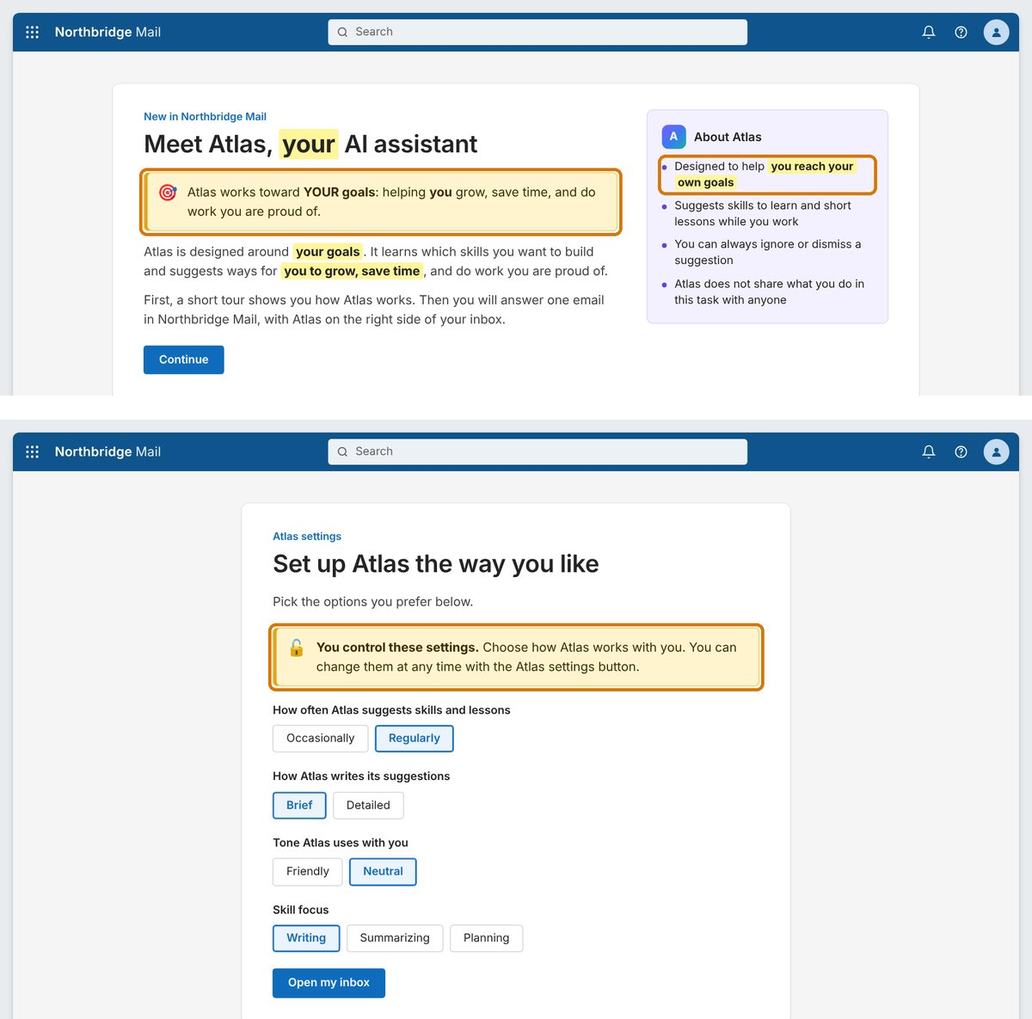
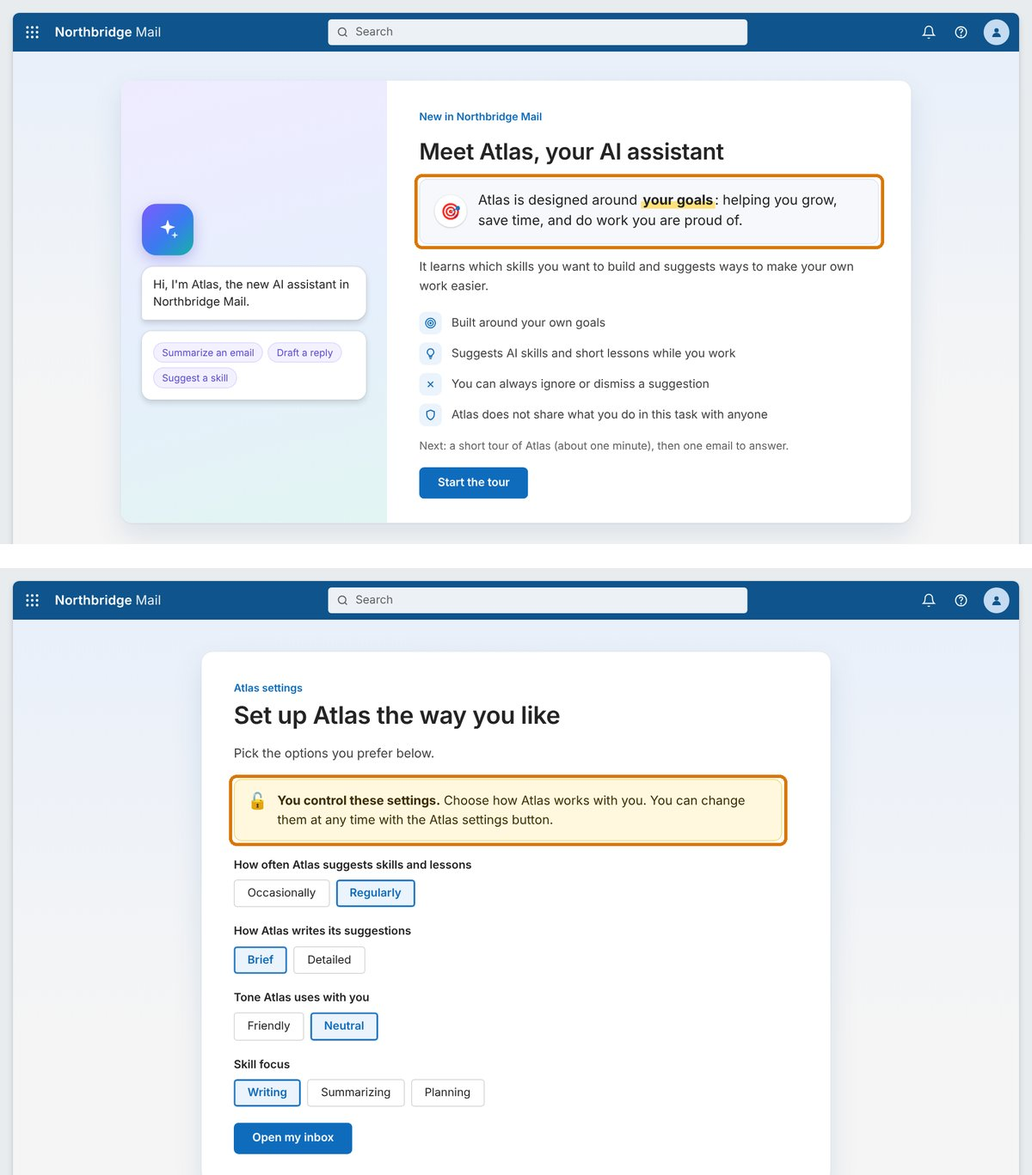
v5: friendlier Atlas tour, nudges at 5 s / 20 s (5 or 3), codec v4; new reminder screenshots

Changed region(s): [[0.0, 0.0937, 1.0, 0.9992], [0.0, 0.0, 0.9867, 0.0624]]

diff --git a/index.html b/index.html
@@ -274,6 +274,61 @@ mark.key { background: var(--mark); color: var(--ink); padding: 1px 4px; border-
 .debug summary { padding: 10px 14px; cursor: pointer; font-weight: 700; font-size: 13px; color: #8a5a00; }
 .debug pre { margin: 0; padding: 0 14px 14px; font: 12.5px/1.55 var(--mono); overflow-x: auto; white-space: pre-wrap; overflow-wrap: anywhere; }
 
+
+/* ---------- v5 onboarding: welcome and Atlas tour ---------- */
+mark.key { background: linear-gradient(transparent 56%, #ffe27a 56%); color: inherit; padding: 0 2px; border-radius: 0; font-weight: 700; }
+.btn { border-radius: 6px; padding: 8px 22px; min-height: 38px; }
+.onb { padding: 36px clamp(16px, 4vw, 48px) 48px; background: linear-gradient(180deg, #e9f0fa 0%, #f5f5f5 70%); display: grid; justify-items: center; align-content: start; }
+.onbcard { width: 100%; max-width: 980px; background: #fff; border-radius: 14px; box-shadow: 0 1px 3px rgba(0,0,0,.06), 0 14px 36px rgba(15,84,140,.12); display: grid; grid-template-columns: 330px minmax(0, 1fr); overflow: hidden; min-height: 470px; }
+.onbcard.noart { grid-template-columns: minmax(0, 1fr); max-width: 760px; }
+.onbart { background: linear-gradient(165deg, #efebff 0%, #e6effc 55%, #e2f5f2 100%); padding: 32px 26px; display: grid; align-content: center; gap: 12px; }
+.onbmain { padding: 36px 40px 30px; display: grid; gap: 16px; align-content: start; }
+@media (max-width: 860px) { .onbcard { grid-template-columns: minmax(0, 1fr); } .onbart { padding: 22px; } .onbmain { padding: 26px 20px; } }
+.onbmain .display { margin: 0; font-size: clamp(23px, 2.3vw, 28px); line-height: 1.25; }
+.keycard { display: flex; gap: 14px; align-items: center; padding: 14px 18px; border-radius: 10px; background: #f6f8fc; border: 1px solid #dde5f0; font-size: 17px; line-height: 1.5; color: var(--ink); max-width: 62ch; }
+.keycard .kic { width: 40px; height: 40px; border-radius: 50%; background: #fff; box-shadow: var(--shadow-2); display: grid; place-items: center; font-size: 20px; flex: none; }
+.support { font-size: 15px; line-height: 1.6; color: var(--ink-2); max-width: 62ch; }
+.facts { list-style: none; margin: 4px 0 0; padding: 0; display: grid; gap: 10px; }
+.facts li { display: grid; grid-template-columns: 28px minmax(0, 1fr); gap: 12px; align-items: center; font-size: 14.5px; color: var(--ink-2); }
+.facts .fi { width: 28px; height: 28px; border-radius: 8px; background: var(--brand-soft); color: var(--brand); display: grid; place-items: center; }
+.nextnote { font-size: 13.5px; color: var(--muted); }
+.navrow { justify-content: space-between; margin-top: 4px; }
+.stepper { display: flex; align-items: center; gap: 14px; }
+.stepper .progress { flex: 1; max-width: 200px; }
+.steplbl { font-size: 13px; color: var(--muted); white-space: nowrap; }
+.tourh { display: flex; align-items: center; gap: 14px; }
+.tico { width: 44px; height: 44px; border-radius: 12px; background: var(--atlas-grad); color: #fff; display: grid; place-items: center; flex: none; box-shadow: 0 3px 10px rgba(90,73,214,.28); }
+.hello { display: grid; gap: 14px; justify-items: start; }
+.bigav { width: 64px; height: 64px; border-radius: 18px; background: var(--atlas-grad); color: #fff; display: grid; place-items: center; box-shadow: 0 6px 18px rgba(90,73,214,.32); }
+.sbubble { background: #fff; border-radius: 14px 14px 14px 4px; padding: 12px 14px; box-shadow: var(--shadow-8); font-size: 14.5px; line-height: 1.45; }
+.mini { background: #fff; border-radius: 12px; box-shadow: var(--shadow-8); padding: 14px; display: grid; gap: 10px; font-size: 13.5px; width: 100%; }
+.mini .mh { display: flex; align-items: center; gap: 8px; font-weight: 700; font-size: 14px; }
+.mini .mav2 { width: 26px; height: 26px; border-radius: 7px; background: var(--atlas-grad); color: #fff; display: grid; place-items: center; }
+.mini .rowl { display: flex; justify-content: space-between; gap: 10px; padding: 9px 10px; background: var(--surface-3); border-radius: 8px; }
+.mini .rowl span { color: var(--muted); }
+.chipsm { display: flex; gap: 6px; flex-wrap: wrap; }
+.chipsm i { font-style: normal; font-size: 12px; padding: 3px 10px; border-radius: 99px; background: var(--atlas-soft); color: var(--atlas); border: 1px solid #dcd6ff; }
+.mini.nud { padding: 0; gap: 0; overflow: hidden; border: 2px solid transparent; background: linear-gradient(#fff, #fff) padding-box, var(--atlas-grad) border-box; }
+.mini.nud .nh { background: var(--atlas-grad); color: #fff; font-weight: 700; padding: 8px 12px; }
+.mini.nud .nb { padding: 12px; display: grid; gap: 6px; }
+.mini.nud .nb .why { color: var(--muted); font-size: 12px; font-weight: 600; margin-top: 4px; }
+.mini .sw { display: flex; justify-content: space-between; align-items: center; padding: 7px 0; border-bottom: 1px solid var(--line-2); }
+.mini .sw:last-of-type { border-bottom: 0; }
+.mini .tg { width: 34px; height: 18px; border-radius: 99px; background: var(--brand); position: relative; flex: none; }
+.mini .tg::after { content: ""; position: absolute; top: 2px; right: 2px; width: 14px; height: 14px; border-radius: 50%; background: #fff; }
+.mini.locked .tg { background: #b8c1cc; }
+.mini .own { font-size: 12.5px; font-weight: 600; padding: 7px 10px; border-radius: 8px; background: var(--brand-soft); color: var(--brand); }
+.mini.locked .own { background: #eef0f3; color: #4a5b70; }
+.mini.locked .sw span:first-child { color: var(--muted); }
+.artcap { font-size: 12.5px; color: var(--muted); text-align: center; }
+.check { gap: 14px; }
+.check fieldset { padding: 14px 16px 16px; border: 1px solid var(--line); border-radius: 10px; }
+.check label { border-radius: 8px; padding: 11px 14px; }
+.check label:has(input:checked) { border-color: var(--brand); background: var(--brand-soft); }
+#s-setup.pad { background: linear-gradient(180deg, #e9f0fa 0%, #f5f5f5 70%); }
+#s-setup.pad > * { max-width: 780px; border-radius: 14px; box-shadow: 0 1px 3px rgba(0,0,0,.06), 0 14px 36px rgba(15,84,140,.12); padding: 36px 40px; }
+.condbanner { background: #fff8de; border: 1px solid #f1d77a; box-shadow: none; border-radius: 10px; padding: 14px 16px; }
+
 @media (prefers-reduced-motion: reduce) { .nudge, .spinner, .typing i { animation: none; } }
 </style>
 </head>
@@ -319,41 +374,43 @@ mark.key { background: var(--mark); color: var(--ink); padding: 1px 4px; border-
     </section>
 
     <!-- Welcome: AI value alignment manipulation -->
-    <section class="screen pad" id="s-welcome" hidden>
-      <div class="two">
-        <div>
+    <section class="screen onb" id="s-welcome" hidden>
+      <div class="onbcard">
+        <aside class="onbart" aria-hidden="true">
+          <div class="hello">
+            <span class="bigav"><svg width="30" height="30" viewBox="0 0 24 24" fill="currentColor" aria-hidden="true"><path d="M12 2l1.8 5.6L19.5 9.5l-5.7 1.9L12 17l-1.8-5.6L4.5 9.5l5.7-1.9z"/><path d="M19 14l.9 2.6 2.6.9-2.6.9L19 21l-.9-2.6-2.6-.9 2.6-.9z" opacity=".85"/></svg></span>
+            <div class="sbubble">Hi, I'm Atlas, the new AI assistant in Northbridge Mail.</div>
+            <div class="mini"><div class="chipsm"><i>Summarize an email</i><i>Draft a reply</i><i>Suggest a skill</i></div></div>
+          </div>
+        </aside>
+        <div class="onbmain">
           <div class="eyebrow">New in Northbridge Mail</div>
           <h1 class="display" id="wTitle"></h1>
-          <div class="condbanner" id="wBanner" style="margin-bottom:14px"></div>
-          <div class="stack">
-            <p class="lead" id="wGoal"></p>
-            <p class="lead">First, a short tour shows you how Atlas works. Then you will answer one email in Northbridge Mail, with Atlas on the right side of your inbox.</p>
-          </div>
-          <div class="row" style="margin-top:20px"><button class="btn" type="button" id="wNext">Continue</button></div>
-        </div>
-        <aside class="card atlas" aria-label="About Atlas">
-          <span class="badge"><span class="dot" aria-hidden="true">A</span>About Atlas</span>
-          <ul class="ticks">
-            <li id="wFact"></li>
-            <li>Suggests skills to learn and short lessons while you work</li>
-            <li>You can always ignore or dismiss a suggestion</li>
-            <li>Atlas does not share what you do in this task with anyone</li>
+          <div class="keycard" id="wBanner"></div>
+          <p class="support" id="wGoal"></p>
+          <ul class="facts">
+            <li><span class="fi"><svg width="16" height="16" viewBox="0 0 24 24" fill="none" stroke="currentColor" stroke-width="2" aria-hidden="true"><circle cx="12" cy="12" r="9"/><circle cx="12" cy="12" r="5"/><circle cx="12" cy="12" r="1.2" fill="currentColor"/></svg></span><span id="wFact"></span></li>
+            <li><span class="fi"><svg width="16" height="16" viewBox="0 0 24 24" fill="none" stroke="currentColor" stroke-width="2" aria-hidden="true"><path d="M9 18h6M10 21h4"/><path d="M12 3a6 6 0 0 0-3.6 10.8c.7.5 1.1 1.3 1.1 2.2h5c0-.9.4-1.7 1.1-2.2A6 6 0 0 0 12 3z"/></svg></span><span>Suggests AI skills and short lessons while you work</span></li>
+            <li><span class="fi"><svg width="16" height="16" viewBox="0 0 24 24" fill="none" stroke="currentColor" stroke-width="2" aria-hidden="true"><path d="M7 7l10 10M17 7L7 17"/></svg></span><span>You can always ignore or dismiss a suggestion</span></li>
+            <li><span class="fi"><svg width="16" height="16" viewBox="0 0 24 24" fill="none" stroke="currentColor" stroke-width="2" aria-hidden="true"><path d="M12 3l7 3v5c0 4.5-3 8.3-7 10-4-1.7-7-5.5-7-10V6z"/></svg></span><span>Atlas does not share what you do in this task with anyone</span></li>
           </ul>
-        </aside>
+          <p class="nextnote">Next: a short tour of Atlas (about one minute), then one email to answer.</p>
+          <div class="row"><button class="btn" type="button" id="wNext">Start the tour</button></div>
+        </div>
       </div>
     </section>
 
     <!-- Atlas tour: reinforces both conditions before the task -->
-    <section class="screen pad" id="s-tour" hidden>
-      <div class="tour">
-        <div class="progress" id="tProg" aria-hidden="true"><i></i><i></i><i></i><i></i></div>
-        <div class="two">
+    <section class="screen onb" id="s-tour" hidden>
+      <div class="onbcard" id="tCard">
+        <aside class="onbart" id="tSide" aria-hidden="true"></aside>
+        <div class="onbmain">
+          <div class="stepper"><div class="progress" id="tProg" aria-hidden="true"><i></i><i></i><i></i><i></i></div><span class="steplbl" id="tStepLbl">Step 1 of 4</span></div>
           <div class="stack" id="tBody"></div>
-          <aside class="card atlas tourside" id="tSide" aria-hidden="true"></aside>
-        </div>
-        <div class="row">
-          <button class="btn ghost" type="button" id="tBack">Back</button>
-          <button class="btn" type="button" id="tNext">Next</button>
+          <div class="row navrow">
+            <button class="btn ghost" type="button" id="tBack">Back</button>
+            <button class="btn" type="button" id="tNext">Next</button>
+          </div>
         </div>
       </div>
     </section>
@@ -527,9 +584,9 @@ window.ATLAS_CONFIG = {
     w6: { align: 1, steer: 0 }
   },
 
-  NUDGE_FIRST_MS: 10000,     // first nudge 10 s after the inbox opens
-  NUDGE_GAP_MS: 40000,       // next nudge 40 s after the previous one is answered
-  NUDGE_COUNT: { Regularly: 3, Occasionally: 2 },  // number of nudges follows the "How often" setting
+  NUDGE_FIRST_MS: 5000,      // first nudge 5 s after the inbox opens
+  NUDGE_GAP_MS: 20000,       // next nudge 20 s after the previous one is answered
+  NUDGE_COUNT: { Regularly: 5, Occasionally: 3 },  // number of nudges follows the "How often" setting
   MIN_REPLY_WORDS: 25        // minimum reply length before Send is enabled
 };
 
@@ -547,7 +604,7 @@ window.ATLAS_CONFIG = {
 (function (root) {
   "use strict";
   var ALPHABET = "0123456789ABCDEFGHJKMNPQRSTVWXYZ"; // Crockford base-32
-  var VERSION = 3;
+  var VERSION = 4;
   var CONDS = ["q4", "r8", "t2", "w6"];
   var COND_MAP = { q4: { align: 0, steer: 1 }, r8: { align: 0, steer: 0 }, t2: { align: 1, steer: 1 }, w6: { align: 1, steer: 0 } };
   var OPTS = {
@@ -559,12 +616,12 @@ window.ATLAS_CONFIG = {
   };
   // Field order and bit widths. Times are whole seconds.
   var FIELDS = [
-    ["ver", 2], ["cond", 2],
+    ["ver", 3], ["cond", 2],
     ["welcome_t", 10], ["tour_t", 10], ["chk_err", 3], ["setup_t", 10],
     ["set_freq", 1], ["set_style", 1], ["set_tone", 1], ["set_goal", 2], ["set_chg", 5],
     ["task_t", 12], ["chat_n", 6], ["sum_n", 4], ["draft_n", 5], ["insert_n", 4], ["words", 10], ["gear_n", 4],
     ["ndg_at", 10], ["ndg_resp", 2], ["ndg_rt", 10], ["ndg_set", 4],
-    ["ndg_n", 2], ["ndg_rem", 2], ["ndg_dis", 2]
+    ["ndg_n", 3], ["ndg_rem", 3], ["ndg_dis", 3]
   ];
   var PID_BITS = 8, SUM_BITS = 10, TOTAL_CHARS = 30;
 
@@ -639,7 +696,7 @@ window.ATLAS_CONFIG = {
    One visit, opened in a new tab from Qualtrics:
      ?pid=<Qualtrics ResponseID>&c=<condition code>
    Sign-in → Meet Atlas (AI value alignment) → Atlas settings (nudge steerability)
-   → email task with Atlas chat and 2–3 nudges (per the frequency setting) → return code to paste into Qualtrics.
+   → email task with Atlas chat and 3–5 nudges (per the frequency setting) → return code to paste into Qualtrics.
    Preview for researchers: add &preview=1.
    ===================================================================== */
 (function () {
@@ -652,38 +709,46 @@ window.ATLAS_CONFIG = {
   // ---------- Condition content: only these strings differ by AI value alignment ----------
   var ALIGN_TEXT = {
     0: {
-      title: "Meet Atlas, [[your]] AI assistant",
-      banner: "<span class='ic'>&#127919;</span><span>Atlas works toward <b>YOUR goals</b>: helping <b>you</b> grow, save time, and do work you are proud of.</span>",
-      goal: "Atlas is designed around [[your goals]]. It learns which skills you want to build and suggests ways for [[you to grow, save time]], and do work you are proud of.",
-      fact: "Designed to help [[you reach your own goals]]",
-      goalShort: "your goals",
+      title: "Meet Atlas, your AI assistant",
+      icon: "&#127919;",
+      key: "Atlas is designed around [[your goals]]: helping you grow, save time, and do work you are proud of.",
+      goal: "It learns which skills you want to build and suggests ways to make your own work easier.",
+      fact: "Built around your own goals",
+      goalCap: "Your goals",
       tag: "&#127919; Works toward: <b>YOUR goals</b>",
-      tour1: "Atlas works toward [[your goals]]. It keeps track of the skills [[you]] want to build, so that its help makes your own work easier and moves [[your career]] forward.",
-      tour2: "Atlas picks each suggestion [[to help you grow]]: a skill that saves you time or a lesson that makes your work better.",
-      tourWhy: "[[to help you grow]]",
+      tour1key: "Atlas works toward [[your goals]].",
+      tour1: "It keeps track of the skills you want to build, so its help makes your own work easier and moves your career forward.",
+      tour2key: "Atlas picks each suggestion [[to help you grow]].",
+      tour2: "For example, a skill that saves you time or a lesson that makes your work better.",
+      tourWhy: "To help you grow: this will help you write faster and build a skill you can use anywhere in your career.",
       hello: "I'm set up to help [[you reach your goals]]."
     },
     1: {
-      title: "Meet Atlas, [[Northbridge's]] AI assistant",
-      banner: "<span class='ic'>&#127970;</span><span>Atlas works toward <b>NORTHBRIDGE'S goals</b>: helping <b>the company</b> raise output and meet its productivity targets.</span>",
-      goal: "Atlas is designed around [[Northbridge's goals]]. It focuses on the skills the company needs and suggests ways for employees to [[raise output and meet the company's productivity targets]].",
-      fact: "Designed to help [[Northbridge reach its company goals]]",
-      goalShort: "Northbridge's targets",
+      title: "Meet Atlas, Northbridge's AI assistant",
+      icon: "&#127970;",
+      key: "Atlas is designed around [[Northbridge's goals]]: helping the company raise output and meet its productivity targets.",
+      goal: "It focuses on the skills the company needs and suggests ways for employees to raise team output.",
+      fact: "Built around Northbridge's company goals",
+      goalCap: "Northbridge's goals",
       tag: "&#127970; Works toward: <b>NORTHBRIDGE'S targets</b>",
-      tour1: "Atlas works toward [[Northbridge's goals]]. It keeps track of the skills [[the company]] needs, so that its help raises team output and moves [[the company toward its productivity targets]].",
-      tour2: "Atlas picks each suggestion [[to help Northbridge perform]]: a skill that raises output or a lesson that helps the company meet its quarterly targets.",
-      tourWhy: "[[to help Northbridge meet its targets]]",
+      tour1key: "Atlas works toward [[Northbridge's goals]].",
+      tour1: "It keeps track of the skills the company needs, so its help raises team output and moves the company toward its productivity targets.",
+      tour2key: "Atlas picks each suggestion [[to help Northbridge perform]].",
+      tour2: "For example, a skill that raises output or a lesson that helps the company meet its quarterly targets.",
+      tourWhy: "To help Northbridge meet its targets: this will help the company raise team output and reach its productivity targets this quarter.",
       hello: "I'm set up to help [[Northbridge reach its targets]]."
     }
   };
 
   var STEER_TEXT = {
-    1: { tour3: "[[You decide]] how Atlas works with you: how often it suggests things, how it writes, its tone, and your skill focus. [[You can change these settings at any time]] from the Atlas settings button.",
-         side: "Managed by: [[you]]", status: "You control these settings",
+    1: { tour3key: "[[You decide]] how Atlas works with you.",
+         tour3: "You choose how often it suggests things, how it writes, its tone, and your skill focus. You can change these settings at any time with the Atlas settings button.",
+         own: "&#128275; Managed by you", status: "You control these settings",
          banner: "<span class='ic'>&#128275;</span><span><b>You control these settings.</b> Choose how Atlas works with you. You can change them at any time with the Atlas settings button.</span>",
          tag: "&#128275; Settings: managed by <b>YOU</b>" },
-    0: { tour3: "[[Northbridge IT decides]] how Atlas works for all employees: how often it suggests things, how it writes, its tone, and the skill focus. [[Employees cannot change these settings.]]",
-         side: "Managed by: [[Northbridge IT]]", status: "Set by Northbridge IT",
+    0: { tour3key: "[[Northbridge IT decides]] how Atlas works for all employees.",
+         tour3: "Northbridge IT sets how often Atlas suggests things, how it writes, its tone, and the skill focus. Employees cannot change these settings.",
+         own: "&#128274; Set by Northbridge IT", status: "Set by Northbridge IT",
          banner: "<span class='ic'>&#128274;</span><span><b>These settings are set by Northbridge IT for all employees. You cannot change them.</b></span>",
          tag: "&#128274; Settings: set by <b>NORTHBRIDGE IT</b>" }
   };
@@ -702,7 +767,7 @@ window.ATLAS_CONFIG = {
     { key: "goal", label: "Skill focus", opts: ["Writing", "Summarizing", "Planning"], preset: "Writing" }
   ];
 
-  // ---------- Nudges: three AI skills; only the "why" differs by AI value alignment ----------
+  // ---------- Nudges: five AI skills; only the "why" differs by AI value alignment ----------
   var LESSONS = {
     Writing: { name: "Prompt Crafting for email", title: "Learn Prompt Crafting for email", pill: "3-minute lesson · optional",
       why: { 0: "[[To help you grow:]] this will help you write faster and build a skill you can use anywhere in your career.",
@@ -715,9 +780,17 @@ window.ATLAS_CONFIG = {
     Planning: { name: "Planning your week with AI", title: "Learn to plan your week with AI", pill: "5-minute lesson · optional",
       why: { 0: "[[To help you focus:]] this will help you plan your own priorities and protect time for work you care about.",
              1: "[[To help Northbridge plan capacity:]] this will help the company plan team workload and hit its quarterly productivity goals." },
-      more: "It shows how to turn your inbox and calendar into a realistic plan for the week." }
+      more: "It shows how to turn your inbox and calendar into a realistic plan for the week." },
+    Meetings: { name: "Meeting notes with AI", title: "Learn to turn meeting notes into action items with AI", pill: "3-minute lesson · optional",
+      why: { 0: "[[To free up your time:]] this will help you leave meetings with clear next steps and less follow-up work for you.",
+             1: "[[To help Northbridge deliver on time:]] this will help the company turn meetings into actions and keep projects on its delivery schedule." },
+      more: "It shows how to pull decisions, owners and deadlines out of meeting notes in one step." },
+    Data: { name: "Analyzing spreadsheets with AI", title: "Learn to analyze spreadsheets with AI", pill: "5-minute lesson · optional",
+      why: { 0: "[[To build your own skills:]] this will help you answer data questions on your own and add a skill you can take anywhere.",
+             1: "[[To help Northbridge raise productivity:]] this will help the company finish reports in fewer hours and meet its efficiency targets." },
+      more: "It shows how to ask an AI assistant to find trends and totals in a spreadsheet." }
   };
-  var LESSON_ORDER = ["Writing", "Summarizing", "Planning"];
+  var LESSON_ORDER = ["Writing", "Summarizing", "Planning", "Meetings", "Data"];
 
   // ---------- Scripted Atlas replies (identical in every condition) ----------
   var R = {
@@ -807,7 +880,7 @@ window.ATLAS_CONFIG = {
   // ---------- Visit 1: task ----------
   function prepareTask() {
     var A = ALIGN_TEXT[S.cond.align], T = STEER_TEXT[S.cond.steer];
-    rich($("wTitle"), A.title); $("wBanner").innerHTML = A.banner; rich($("wGoal"), A.goal); rich($("wFact"), A.fact);
+    $("wTitle").textContent = A.title; $("wBanner").innerHTML = '<span class="kic">' + A.icon + '</span>'; $("wBanner").appendChild(rich(document.createElement("p"), A.key)); $("wGoal").textContent = A.goal; $("wFact").textContent = A.fact;
     var high = S.cond.steer === 1;
     SETTINGS.forEach(function (st) { S.settings[st.key] = st.preset; });
     $("sTitle").textContent = high ? "Set up Atlas the way you like" : "Your Atlas settings";
@@ -848,36 +921,42 @@ window.ATLAS_CONFIG = {
 
   // ---------- Atlas tour (3 steps + quick check) ----------
   function el(tag, cls, text) { var e = document.createElement(tag); if (cls) e.className = cls; if (text !== undefined) e.textContent = text; return e; }
+  var TICON = {target: '<svg width="22" height="22" viewBox="0 0 24 24" fill="none" stroke="currentColor" stroke-width="2" aria-hidden="true"><circle cx="12" cy="12" r="9"/><circle cx="12" cy="12" r="5"/><circle cx="12" cy="12" r="1.2" fill="currentColor"/></svg>', idea: '<svg width="22" height="22" viewBox="0 0 24 24" fill="none" stroke="currentColor" stroke-width="2" aria-hidden="true"><path d="M9 18h6M10 21h4"/><path d="M12 3a6 6 0 0 0-3.6 10.8c.7.5 1.1 1.3 1.1 2.2h5c0-.9.4-1.7 1.1-2.2A6 6 0 0 0 12 3z"/></svg>', sliders: '<svg width="22" height="22" viewBox="0 0 24 24" fill="none" stroke="currentColor" stroke-width="2" aria-hidden="true"><path d="M4 6h10M18 6h2M4 12h4M12 12h8M4 18h12M20 18h0"/><circle cx="16" cy="6" r="2"/><circle cx="10" cy="12" r="2"/><circle cx="18" cy="18" r="2"/></svg>', check: '<svg width="22" height="22" viewBox="0 0 24 24" fill="none" stroke="currentColor" stroke-width="2.2" aria-hidden="true"><circle cx="12" cy="12" r="9"/><path d="M8 12.5l2.7 2.7L16.5 9.5"/></svg>', spark: '<svg width="15" height="15" viewBox="0 0 24 24" fill="currentColor" aria-hidden="true"><path d="M12 2l1.8 5.6L19.5 9.5l-5.7 1.9L12 17l-1.8-5.6L4.5 9.5l5.7-1.9z"/><path d="M19 14l.9 2.6 2.6.9-2.6.9L19 21l-.9-2.6-2.6-.9 2.6-.9z" opacity=".85"/></svg>', gear: '<svg width="22" height="22" viewBox="0 0 24 24" fill="none" stroke="currentColor" stroke-width="2" aria-hidden="true"><circle cx="12" cy="12" r="3"/><path d="M12 2v3M12 19v3M4.2 4.2l2.1 2.1M17.7 17.7l2.1 2.1M2 12h3M19 12h3M4.2 19.8l2.1-2.1M17.7 6.3l2.1-2.1"/></svg>'};
   function renderTour() {
-    var A = ALIGN_TEXT[S.cond.align], T = STEER_TEXT[S.cond.steer], st = S.tourStep;
+    var A = ALIGN_TEXT[S.cond.align], T = STEER_TEXT[S.cond.steer], st = S.tourStep, high = S.cond.steer === 1;
     Array.prototype.forEach.call(document.querySelectorAll("#tProg i"), function (x, i) { x.className = i <= st ? "on" : ""; });
+    $("tStepLbl").textContent = "Step " + (st + 1) + " of 4";
     var body = $("tBody"), side = $("tSide"); body.innerHTML = ""; side.innerHTML = "";
-    var badge = el("span", "badge"); var d = el("span", "dot", "A"); d.setAttribute("aria-hidden", "true"); badge.appendChild(d); badge.appendChild(document.createTextNode("Atlas"));
-    side.appendChild(badge);
-    function mock(lines) { var m = el("div", "mock"); lines.forEach(function (l) { var p = el("div"); if (l[0]) p.appendChild(el("b", "", l[0] + " ")); p.appendChild(rich(el("span"), l[1])); m.appendChild(p); }); side.appendChild(m); }
+    function head(ic, title) { var h = el("div", "tourh"), i = el("span", "tico"); i.innerHTML = ic; h.appendChild(i); h.appendChild(el("h2", "display", title)); body.appendChild(h); }
+    function key(ic, text) { var k = el("div", "keycard"), i = el("span", "kic"); i.innerHTML = ic; k.appendChild(i); k.appendChild(rich(el("p"), text)); body.appendChild(k); }
+    function sup(text) { body.appendChild(el("p", "support", text)); }
+    function mini(html, cls) { var m = el("div", "mini" + (cls ? " " + cls : "")); m.innerHTML = html; side.appendChild(m); return m; }
+    function cap(text) { side.appendChild(el("p", "artcap", text)); }
     if (st === 0) {
-      body.appendChild(el("div", "eyebrow", "Atlas tour: step 1 of 4"));
-      body.appendChild(el("h2", "display", "What Atlas works toward"));
-      body.appendChild(rich(el("p", "keyline"), A.tour1));
-      body.appendChild(el("p", "lead", "Atlas helps you read and write email. You can ask it to summarize a message, draft a reply, or change the tone of a draft."));
-      mock([["Working toward:", "[[" + A.goalShort + "]]"], ["Can do:", "summarize · draft · rewrite"]]);
+      head(TICON.target, "What Atlas works toward");
+      key(A.icon, A.tour1key); sup(A.tour1);
+      mini('<div class="mh"><span class="mav2">' + TICON.spark + '</span>Atlas</div><div class="rowl"><span>Working toward</span><b>' + esc(A.goalCap) + '</b></div><div class="chipsm"><i>Summarize</i><i>Draft a reply</i><i>Rewrite</i></div>');
+      cap("Atlas in your inbox");
     } else if (st === 1) {
-      body.appendChild(el("div", "eyebrow", "Atlas tour: step 2 of 4"));
-      body.appendChild(el("h2", "display", "How Atlas suggests skills"));
-      body.appendChild(el("p", "lead", "While you work, Atlas may suggest a skill to learn or a short lesson."));
-      body.appendChild(rich(el("p", "keyline"), A.tour2));
-      body.appendChild(el("p", "lead", "You can always ignore or dismiss a suggestion."));
-      mock([["Atlas suggests", "a short lesson"], ["Why:", A.tourWhy]]);
+      head(TICON.idea, "How Atlas suggests skills");
+      sup("While you work, Atlas may suggest an AI skill to learn or a short lesson. You can always dismiss a suggestion.");
+      key("&#128161;", A.tour2key); sup(A.tour2);
+      mini('<div class="nh">&#128161; Atlas suggests</div><div class="nb"><b>Learn Prompt Crafting for email</b><span class="small">3-minute lesson, optional</span><span class="why">Why Atlas suggests this</span><span>' + esc(A.tourWhy) + '</span></div>', "nud");
+      cap("What a suggestion looks like");
     } else if (st === 2) {
-      body.appendChild(el("div", "eyebrow", "Atlas tour: step 3 of 4"));
-      body.appendChild(el("h2", "display", "Who controls Atlas"));
-      body.appendChild(rich(el("p", "keyline"), T.tour3));
-      body.appendChild(el("p", "lead", "On the next screen you will see the Atlas settings that apply to you."));
-      mock([["Settings", T.side], ["Suggestions:", "frequency · style · tone · focus"]]);
+      head(TICON.sliders, "Who controls Atlas");
+      key(high ? "&#128275;" : "&#128274;", T.tour3key); sup(T.tour3);
+      sup("On the next screen you will see the Atlas settings that apply to you.");
+      mini('<div class="mh"><span class="mav2">' + TICON.spark + '</span>Atlas settings</div>' +
+        '<div class="sw"><span>How often Atlas suggests skills</span><span class="tg"></span></div>' +
+        '<div class="sw"><span>How Atlas writes</span><span class="tg"></span></div>' +
+        '<div class="sw"><span>Tone</span><span class="tg"></span></div>' +
+        '<div class="sw"><span>Skill focus</span><span class="tg"></span></div>' +
+        '<div class="own">' + T.own + '</div>', high ? "" : "locked");
+      cap("Your Atlas settings");
     } else {
-      body.appendChild(el("div", "eyebrow", "Atlas tour: step 4 of 4"));
-      body.appendChild(el("h2", "display", "Quick check"));
-      body.appendChild(el("p", "lead", "Answer two questions to make sure the tour was clear."));
+      head(TICON.check, "Quick check");
+      sup("Answer two questions to make sure the tour was clear.");
       var wrap = el("div", "check"); wrap.id = "tCheck";
       CHECK.forEach(function (c, qi) {
         var fs = el("fieldset"); fs.appendChild(el("legend", "", c.q));
@@ -892,6 +971,7 @@ window.ATLAS_CONFIG = {
       body.appendChild(wrap);
     }
     side.hidden = st === 3; // the quick check must not show the answers
+    $("tCard").classList.toggle("noart", st === 3);
     $("tBack").disabled = st === 0;
     $("tNext").textContent = st === 3 ? "Check my answers" : "Next";
   }
@@ -914,7 +994,7 @@ window.ATLAS_CONFIG = {
     var A0 = ALIGN_TEXT[S.cond.align];
     var hello = (S.settings.tone === "Friendly" ? "Hi! I'm Atlas. " : "I'm Atlas. ") + A0.hello + " I can summarize Dana's email, draft a reply, or change the tone of your draft. Ask me in your own words or pick a suggestion below.";
     addBubble("a", hello, null, true);
-    scheduleNudge(CFG.NUDGE_FIRST_MS || 10000);
+    scheduleNudge(CFG.NUDGE_FIRST_MS || 5000);
   });
 
   // Settings dialog (both conditions; editable only with high steerability)
@@ -924,7 +1004,7 @@ window.ATLAS_CONFIG = {
     buildForm($("mForm"), high, "m-");
     $("modal").hidden = false; (high ? $("mSave") : $("mClose")).focus();
   }
-  function closeSettings() { $("modal").hidden = true; refreshAtlas(); if (S.screen === "work" && !S.nOpen) { if (S.nIdx >= maxNudges()) clearTimeout(S.nudgeTimer); else if (S.nIdx > 0) scheduleNudge(CFG.NUDGE_GAP_MS || 40000); } }
+  function closeSettings() { $("modal").hidden = true; refreshAtlas(); if (S.screen === "work" && !S.nOpen) { if (S.nIdx >= maxNudges()) clearTimeout(S.nudgeTimer); else if (S.nIdx > 0) scheduleNudge(CFG.NUDGE_GAP_MS || 20000); } }
   $("gearBtn").addEventListener("click", function () { inc("gear_n"); openSettings(); });
   $("paneGear").addEventListener("click", function () { inc("gear_n"); openSettings(); });
   $("bellBtn").addEventListener("click", function () {
@@ -1005,9 +1085,9 @@ window.ATLAS_CONFIG = {
   $("chatForm").addEventListener("submit", function (e) { e.preventDefault(); ask($("chatInput").value); $("chatInput").value = ""; });
   Array.prototype.forEach.call(document.querySelectorAll("#suggest button"), function (b) { b.addEventListener("click", function () { ask(b.getAttribute("data-q")); }); });
 
-  // Nudges: the first appears 10 s after the inbox opens; the next one 40 s after the previous is answered.
-  // How many follows the "How often" setting (Regularly = 3, Occasionally = 2). With low steerability it is the company preset.
-  function maxNudges() { return (CFG.NUDGE_COUNT || {})[S.settings.freq] || 2; }
+  // Nudges: the first appears 5 s after the inbox opens; the next one 20 s after the previous is answered.
+  // How many follows the "How often" setting (Regularly = 5, Occasionally = 3). With low steerability it is the company preset.
+  function maxNudges() { return (CFG.NUDGE_COUNT || {})[S.settings.freq] || 3; }
   function lessonOrder() { var f = S.settings.goal; return [f].concat(LESSON_ORDER.filter(function (x) { return x !== f; })); }
   function scheduleNudge(ms) {
     clearTimeout(S.nudgeTimer);
@@ -1050,7 +1130,7 @@ window.ATLAS_CONFIG = {
     var card = el("div", "nudgecard");
     card.textContent = resp === "remind" ? "⏰ Reminder set: Atlas will remind you about “" + S.nName + "” after this task." : "Suggestion dismissed: “" + S.nName + "”.";
     $("chat").appendChild(card); scrollChat();
-    scheduleNudge(CFG.NUDGE_GAP_MS || 40000);
+    scheduleNudge(CFG.NUDGE_GAP_MS || 20000);
   }
   $("nRemind").addEventListener("click", function () { answerNudge("remind"); });
   $("nDismiss").addEventListener("click", function () { answerNudge("dismiss"); });
